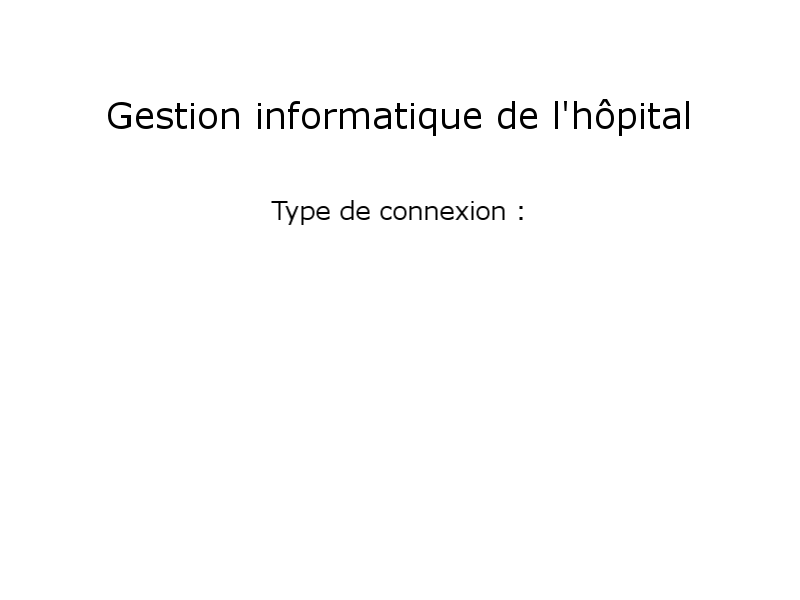
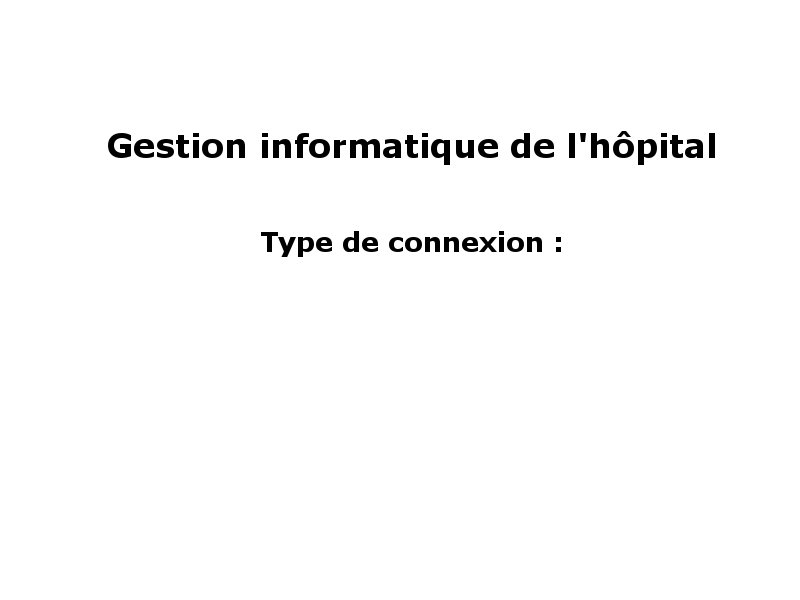
Fin du graphisme + correction de bugs

Changed region(s): [[0.125, 0.15, 0.9062, 0.27], [0.3125, 0.33, 0.7188, 0.42]]

diff --git a/Hopital/src/hopital/MenuConnexion.java b/Hopital/src/hopital/MenuConnexion.java
@@ -6,6 +6,7 @@
 package hopital;
 
 import static hopital.HopitalGraphique.*;
+import java.awt.Color;
 import java.awt.Dimension;
 import java.awt.Graphics;
 import java.awt.event.ActionEvent;
@@ -35,8 +36,9 @@ public class MenuConnexion extends JPanel implements ActionListener {
     private JRadioButton distante;
     private JPanel pan_locale;
     private JPanel pan_distante;
-
+    private ImagePan back;
     private JButton valider;
+    private JButton quitter;
     private static Connexion db;
     private JTextField test[];
     private HopitalGraphique hopGraph;
@@ -50,6 +52,8 @@ public class MenuConnexion extends JPanel implements ActionListener {
         locale = new JRadioButton("Locale", true);
         distante = new JRadioButton("Distante");
         valider = new JButton("Valider");
+        quitter = new JButton("Quitter");
+        back = new ImagePan("image.jpg");
         test = new JTextField[7];
         this.build();
 
@@ -73,8 +77,9 @@ public class MenuConnexion extends JPanel implements ActionListener {
             test[i].setPreferredSize(new Dimension(autoSizeX(0.1), autoSizeY(0.05)));
         }
         pan_locale.setBounds(autoSizeX(0.15), autoSizeY(0.5), autoSizeX(0.5), autoSizeY(0.0667));
+        
         this.add(pan_locale);
-
+        
         pan_distante.add(distante);
         test[3] = new JTextField();
         test[3].setToolTipText("UsernameECE");
@@ -92,9 +97,15 @@ public class MenuConnexion extends JPanel implements ActionListener {
         pan_distante.setBounds(autoSizeX(0.14375), autoSizeY(0.6167), autoSizeX(0.625), autoSizeY(0.0667));
         this.add(pan_distante);
 
-        valider.setBounds(autoSizeX(0.43125), autoSizeY(0.7833), autoSizeX(0.125), autoSizeY(0.0667));
+        valider.setBounds(autoSizeX(0.33125), autoSizeY(0.7833), autoSizeX(0.125), autoSizeY(0.0667));
         this.add(valider);
         valider.addActionListener(this);
+        
+        quitter.setBounds(autoSizeX(0.53125), autoSizeY(0.7833), autoSizeX(0.125), autoSizeY(0.0667));
+        this.add(quitter);
+        quitter.addActionListener(this);
+        
+        this.add(back);
         repaint();
     }
 
@@ -103,11 +114,9 @@ public class MenuConnexion extends JPanel implements ActionListener {
             if (bool_locale) {
                 //db = new Connexion(test[0].getText(), test[1].getText(), test[2].getText());
                 db = new Connexion("hopital", "root", test[2].getText());
-                System.out.println("locale");
 
             } else {
                 db = new Connexion(test[3].getText(), test[4].getText(), test[5].getText(), test[6].getText());
-                System.out.println("distante");
             }
         } catch (SQLException | ClassNotFoundException ex) {
             if (!"Erreur Connection A Distance".equals(ex.getMessage())) {
@@ -128,7 +137,11 @@ public class MenuConnexion extends JPanel implements ActionListener {
                 hopGraph.changeFenetre(1);
             }
         }
-    }
+        
+        else if(e.getSource()==quitter){
+            System.exit(0);
+        }
+        }
 
     public static Connexion getConnexion() {
         return db;
@@ -142,19 +155,22 @@ public class MenuConnexion extends JPanel implements ActionListener {
         } catch (IOException ex) {
             Logger.getLogger(MenuConnexion.class.getName()).log(Level.SEVERE, null, ex);
         }
-
+        back.setBounds(0,0, autoSizeX(1.0), autoSizeY(1.0));
         for (int i = 0; i < 3; i++) {
             test[i].setPreferredSize(new Dimension(autoSizeX(0.1), autoSizeY(0.05)));
         }
         pan_locale.setBounds(autoSizeX(0.15), autoSizeY(0.5), autoSizeX(0.5), autoSizeY(0.0667));
-
+        pan_locale.setBackground(Color.PINK);
         for (int i = 3; i < 7; i++) {
             test[i].setPreferredSize(new Dimension(autoSizeX(0.1), autoSizeY(0.05)));
         }
 
         pan_distante.setBounds(autoSizeX(0.14375), autoSizeY(0.6167), autoSizeX(0.625), autoSizeY(0.0667));
-
-        valider.setBounds(autoSizeX(0.43125), autoSizeY(0.7833), autoSizeX(0.125), autoSizeY(0.0667));
+        pan_distante.setBackground(Color.PINK);
+        valider.setBounds(autoSizeX(0.33125), autoSizeY(0.7833), autoSizeX(0.125), autoSizeY(0.0667));
+        valider.setBackground(Color.PINK);
+        quitter.setBounds(autoSizeX(0.53125), autoSizeY(0.7833), autoSizeX(0.125), autoSizeY(0.0667));
+        quitter.setBackground(Color.PINK);
 
     }
 

diff --git a/Hopital/src/hopital/MenuMisAJour.java b/Hopital/src/hopital/MenuMisAJour.java
@@ -10,6 +10,11 @@ import java.awt.Color;
 import java.awt.Graphics;
 import java.awt.event.ActionEvent;
 import java.awt.event.ActionListener;
+import java.io.File;
+import java.io.IOException;
+import java.util.logging.Level;
+import java.util.logging.Logger;
+import javax.imageio.ImageIO;
 import javax.swing.JButton;
 import javax.swing.JLabel;
 import javax.swing.JPanel;
@@ -22,7 +27,6 @@ public class MenuMisAJour extends JPanel implements ActionListener {
 
     private final JButton retour;
     private final HopitalGraphique hopGraph;
-    private final JLabel title;
     private final JButton ajout;
     private final JButton suppression;
     private final JButton modification;
@@ -30,7 +34,6 @@ public class MenuMisAJour extends JPanel implements ActionListener {
 
     public MenuMisAJour(HopitalGraphique hop) {
         hopGraph = hop;
-        title = new JLabel("Menu de mise à jour");
         retour = new JButton("Retour");
         ajout = new JButton("Ajout");
         modification = new JButton("Modification");
@@ -42,7 +45,6 @@ public class MenuMisAJour extends JPanel implements ActionListener {
     private void build() {
         this.setLayout(null);
 
-        this.add(title);
 
         ajout.addActionListener(this);
         this.add(ajout);
@@ -76,8 +78,14 @@ public class MenuMisAJour extends JPanel implements ActionListener {
     @Override
     public void paint(Graphics g) {
         super.paint(g);
+        
+        try {
+            g.drawImage(ImageIO.read(new File("maj.png")), 0, 0, autoSizeX(1.0), autoSizeY(1.0), this);
+        } catch (IOException ex) {
+            Logger.getLogger(MenuConnexion.class.getName()).log(Level.SEVERE, null, ex);
+        }
+        
         back.setBounds(0, 0, autoSizeX(1.0), autoSizeY(1.0));
-        title.setBounds(autoSizeX(0.435), autoSizeY(0.083), autoSizeX(0.25), autoSizeY(0.116));
         ajout.setBounds(autoSizeX(0.368), autoSizeY(0.25), autoSizeX(0.25), autoSizeY(0.116));
         modification.setBounds(autoSizeX(0.36875), autoSizeY(0.416), autoSizeX(0.25), autoSizeY(0.116));
         suppression.setBounds(autoSizeX(0.36875), autoSizeY(0.5833), autoSizeX(0.25), autoSizeY(0.116));

diff --git a/Hopital/src/hopital/MenuPrincipal.java b/Hopital/src/hopital/MenuPrincipal.java
@@ -10,6 +10,11 @@ import java.awt.Color;
 import java.awt.Graphics;
 import java.awt.event.ActionEvent;
 import java.awt.event.ActionListener;
+import java.io.File;
+import java.io.IOException;
+import java.util.logging.Level;
+import java.util.logging.Logger;
+import javax.imageio.ImageIO;
 import javax.swing.JButton;
 import javax.swing.JLabel;
 import javax.swing.JPanel;
@@ -22,7 +27,6 @@ public class MenuPrincipal extends JPanel implements ActionListener {
 
     private final JButton retour;
     private final HopitalGraphique hopGraph;
-    private final JLabel title;
     private final JButton reporting;
     private final JButton interrogation;
     private final JButton miseAJour;
@@ -30,7 +34,6 @@ public class MenuPrincipal extends JPanel implements ActionListener {
 
     public MenuPrincipal(HopitalGraphique hop) {
         hopGraph = hop;
-        title = new JLabel("Menu principal");
         retour = new JButton("Retour");
         reporting = new JButton("Reporting");
         miseAJour = new JButton("Mise à jour");
@@ -41,7 +44,6 @@ public class MenuPrincipal extends JPanel implements ActionListener {
 
     private void build() {
         this.setLayout(null);
-        this.add(title);
         reporting.addActionListener(this);
         this.add(reporting);
 
@@ -74,8 +76,13 @@ public class MenuPrincipal extends JPanel implements ActionListener {
     @Override
     public void paint(Graphics g) {
         super.paint(g);
+        
+        try {
+            g.drawImage(ImageIO.read(new File("principale.png")), 0, 0, autoSizeX(1.0), autoSizeY(1.0), this);
+        } catch (IOException ex) {
+            Logger.getLogger(MenuConnexion.class.getName()).log(Level.SEVERE, null, ex);
+        }
 
-        title.setBounds(autoSizeX(0.44), autoSizeY(0.083), autoSizeX(0.25), autoSizeY(0.116));
         reporting.setBounds(autoSizeX(0.368), autoSizeY(0.25), autoSizeX(0.25), autoSizeY(0.116));
         miseAJour.setBounds(autoSizeX(0.36875), autoSizeY(0.416), autoSizeX(0.25), autoSizeY(0.116));
         interrogation.setBounds(autoSizeX(0.36875), autoSizeY(0.5833), autoSizeX(0.25), autoSizeY(0.116));

diff --git a/Hopital/src/hopital/InterrogationAbs.java b/Hopital/src/hopital/InterrogationAbs.java
@@ -144,8 +144,13 @@ public abstract class InterrogationAbs extends JPanel {
         }
         back.setBounds(autoSizeX(0.0), autoSizeY(0.0), autoSizeX(1.0), autoSizeY(1.0));
         for (int i = 0; i < 3; i++) {
-            alias[i].setBackground(Color.PINK);
-            listes[i].setBackground(Color.PINK);
+            alias[i].setBackground(Color.WHITE);
+            listes[i].setBackground(Color.WHITE);
+            listesColonnes[i].setBackground(Color.WHITE);
+            textCriteres[i].setBackground(Color.WHITE);
+            listesCriteres[i].setBackground(Color.WHITE);
+            listesTri[i].setBackground(Color.WHITE);
+            
             alias[i].setBounds(autoSizeX(0.0925 + i * 0.32), autoSizeY(0.22), autoSizeX(0.23125), autoSizeY(0.05));
             listes[i].setBounds(autoSizeX(0.0925 + i * 0.32), autoSizeY(0.14), autoSizeX(0.23125), autoSizeY(0.05));
             listesColonnes[i].setBounds(autoSizeX(0.0925 + i * 0.32), autoSizeY(0.06), autoSizeX(0.23125), autoSizeY(0.05));
@@ -158,7 +163,9 @@ public abstract class InterrogationAbs extends JPanel {
             etOu[i + 1].setBounds(autoSizeX(0.394 + i * 0.16), autoSizeY(0.33), autoSizeX(0.02), autoSizeY(0.02));
         }
         valider.setBounds(autoSizeX(0.545), autoSizeY(0.6), autoSizeX(0.15), autoSizeY(0.05));
+        valider.setBackground(Color.PINK);
         retour.setBounds(autoSizeX(0.345), autoSizeY(0.6), autoSizeX(0.1), autoSizeY(0.05));
+        retour.setBackground(Color.PINK);
     }
 
 }

diff --git a/Hopital/src/hopital/RechercheAvanceeAbs.java b/Hopital/src/hopital/RechercheAvanceeAbs.java
@@ -27,12 +27,15 @@ public abstract class RechercheAvanceeAbs extends JPanel {
     protected JTextArea t;
     protected HopitalGraphique hopGraph;
     protected JScrollPane pan;
+    private ImagePan back;
 
     public RechercheAvanceeAbs(HopitalGraphique hop) {
 
         r = new JButton("Retour");
         b = new JButton("Rechercher");
         t = new JTextArea(8, 50);
+        
+        back = new ImagePan("image.jpg");
 
         this.hopGraph = hop;
         this.build();
@@ -57,15 +60,19 @@ public abstract class RechercheAvanceeAbs extends JPanel {
 
         pan = new JScrollPane(new JTable(obj, str));
         this.add(pan);
+        this.add(back);
         repaint();
     }
 
     @Override
     public void paint(Graphics g) {
         super.paint(g);
+        back.setBounds(autoSizeX(0.0), autoSizeY(0.0), autoSizeX(1.0), autoSizeY(1.0));
         pan.setBounds(autoSizeX(0.42), autoSizeY(0.05), autoSizeX(0.5), autoSizeY(0.78));
         b.setBounds(autoSizeX(0.2), autoSizeY(0.6), autoSizeX(0.15), autoSizeY(0.05));
         r.setBounds(autoSizeX(0.05), autoSizeY(0.6), autoSizeX(0.1), autoSizeY(0.05));
+        r.setBackground(Color.PINK);
+        b.setBackground(Color.PINK);
         t.setBounds(autoSizeX(0.05), autoSizeY(0.25), autoSizeX(0.3), autoSizeY(0.2));
     }
 }
